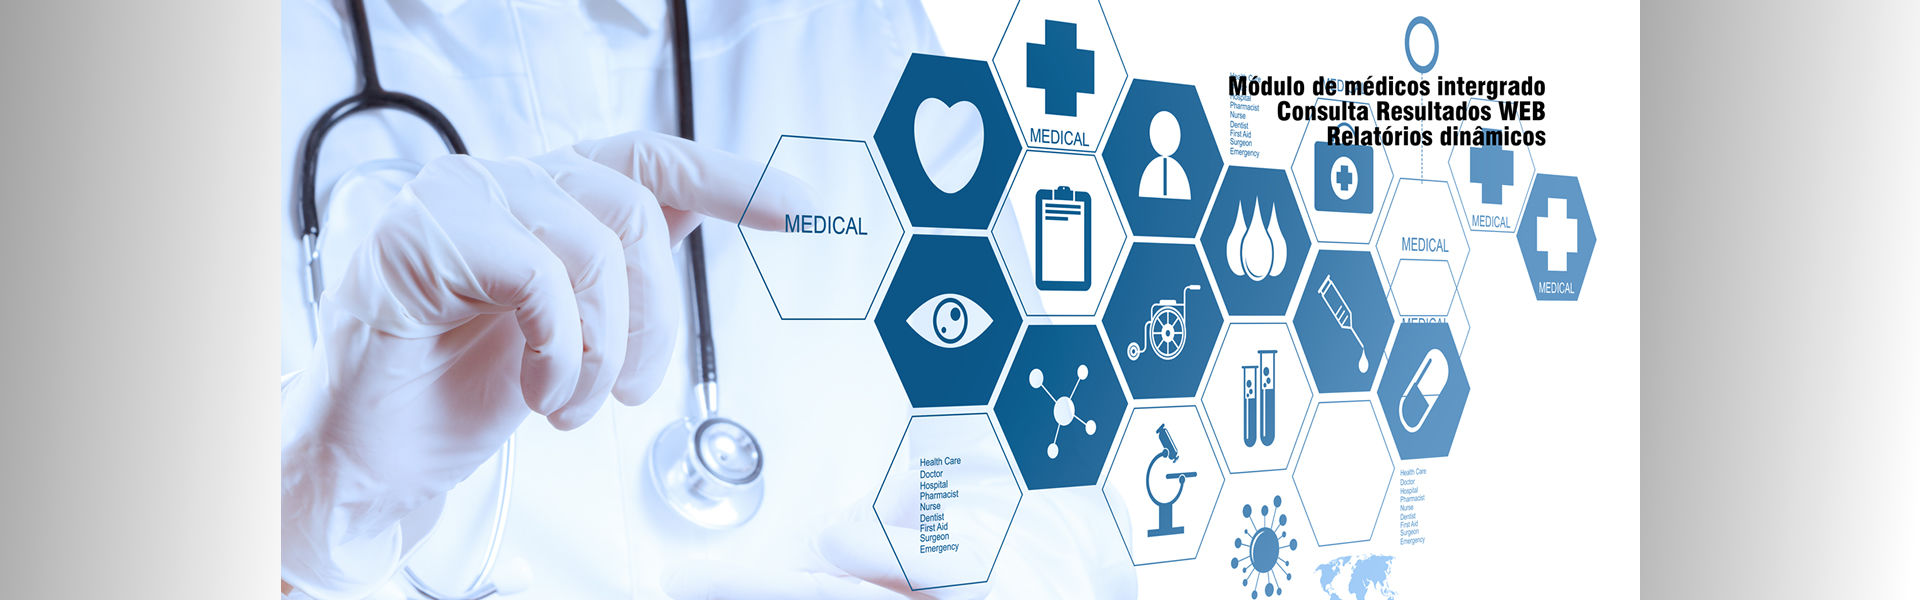
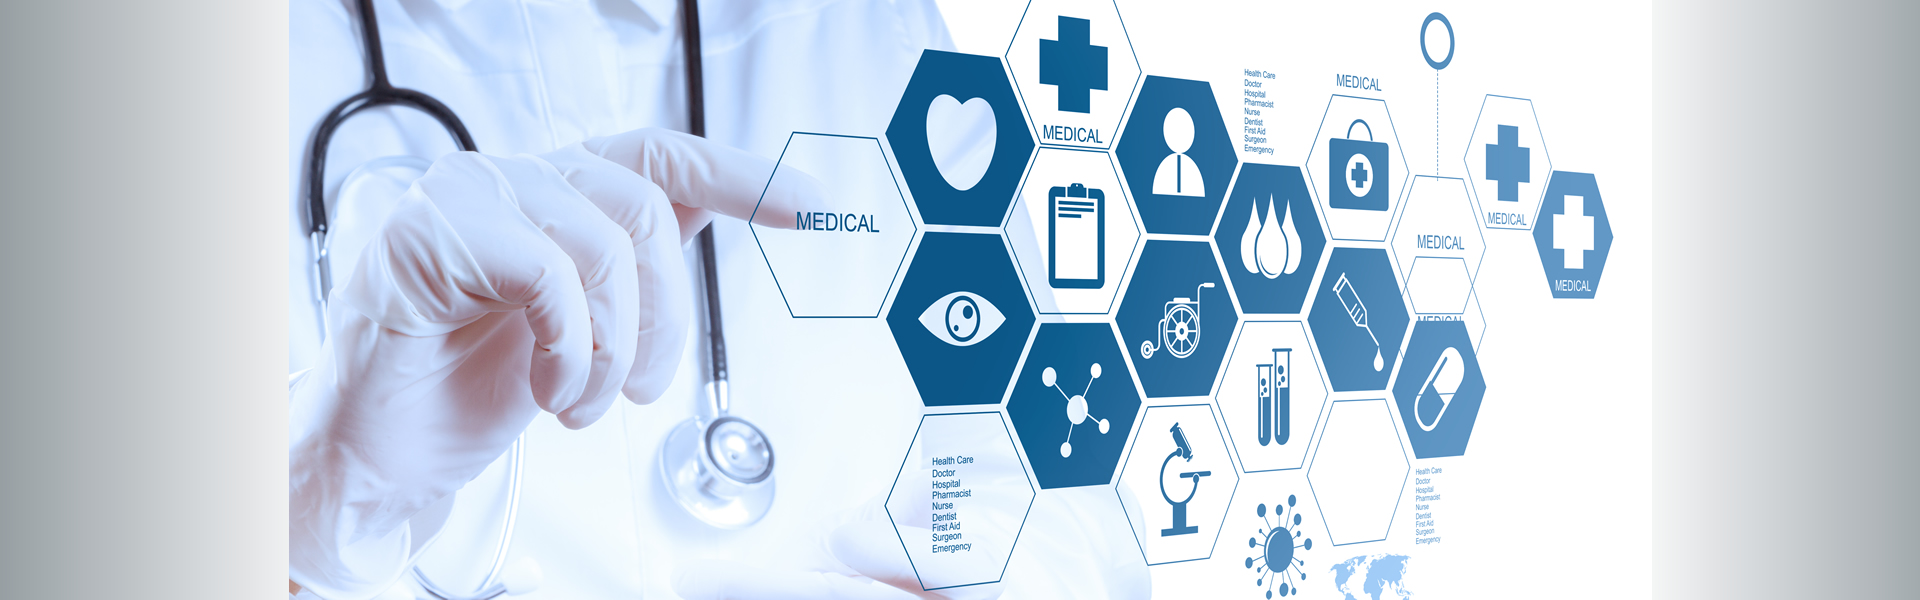
Atualizacao do Carosel inicial para responsivo.

diff --git a/views/geslab/geslab_site.html b/views/geslab/geslab_site.html
@@ -38,57 +38,92 @@
         <li data-target="inSlider" data-slide-to="2"></li>
         <li data-target="inSlider" data-slide-to="3"></li>
         <li data-target="inSlider" data-slide-to="4"></li>
-    </ol
+    </ol>
     
     <br>
-    <br>
-    <br>
-    
     
     <div class="carousel-inner" role="listbox">
-        
         <div class="item active">
-            <div class="container">
+            
+            
                 <div class="carousel-caption">
-                </div>
-            </div>
-            <!-- Set background for slide in css -->
-            <div class="header-back one"></div>
+                    <h2 style="color: black"><b>Mais controle em suas mãos<br/>
+                        Operações com apenas um clique<br/>
+                        Mais interatividade com seus pacientes<br/></b> 
+                        </h2>
+                    
 
+                    <div class="carousel-caption">
+                    </div>
+                </div>
+
+                <!-- Set background for slide in css -->
+                <div class="header-back one"></div>
+
+           
         </div>
         
+        
         <div class="item">
-            <div class="container">
-                <div class="carousel-caption blank">
+            
+            
+            <div class="carousel-caption">
+                    <h2 style="color: black"><b>Soluções inovadoras <br/>
+                        Suporte e interatividade<br/>
+                        Parceria no desenvolvimento<br/></b> 
+                        </h2>
+                    
+
+                    <div class="carousel-caption">
+                    </div>
                 </div>
-            </div>
+            
+            
             <!-- Set background for slide in css -->
             <div class="header-back two"></div>
+        
+        
         </div>
         
+        
+        
         <div class="item">
-            <div class="container">
-                <div class="carousel-caption blank">
+            
+            <div class="carousel-caption">
+                    <h2 style="color: black"><b>Modulo de médico integrado<br/>
+                        Consulta Resultado WEB<br/>
+                        Relatorios Dinamicos<br/></b> 
+                        </h2>
+                    
+
+                    <div class="carousel-caption">
+                    </div>
                 </div>
-            </div>
             <!-- Set background for slide in css -->
             <div class="header-back three"></div>
         </div>
         
+        
          <div class="item">
-            <div class="container">
-                <div class="carousel-caption blank">
+            
+             <div class="carousel-caption">
+                    <h2 style="color: black"><b>Banco de Dados<br/>
+                        Servidores de aplicação<br/>
+                        Programas de Apoio<br/>
+                        Tudo On tle cloud<br/></b> 
+                        </h2>
+                    
+
+                    <div class="carousel-caption">
+                    </div>
                 </div>
-            </div>
+             
             <!-- Set background for slide in css -->
             <div class="header-back four"></div>
         </div>
         
+        
          <div class="item">
-            <div class="container">
-                <div class="carousel-caption blank">
-                </div>
-            </div>
             <!-- Set background for slide in css -->
             <div class="header-back five"></div>
         </div>

diff --git a/views/landing.html b/views/landing.html
@@ -62,6 +62,7 @@
             <div class="header-back two"></div>
         </div>
     </div>
+    
     <a class="left carousel-control" data-target="#inSlider" role="button" data-slide="prev">
         <span class="glyphicon glyphicon-chevron-left" aria-hidden="true"></span>
         <span class="sr-only">Previous</span>
@@ -71,6 +72,7 @@
         <span class="sr-only">Next</span>
     </a>
 </div>
+
 <section id="features" class="container services">
     <div class="row">
         <div class="col-sm-3">

diff --git a/css/overrides.css b/css/overrides.css
@@ -145,7 +145,7 @@ and open the template in the editor.
 
 .geslab-site .navbar-default .navbar-nav > li > a:hover,
 .geslab-site .navbar-default .navbar-nav > li > a:focus {
-  color: orange;
+  color: green;
   background: inherit;
 }
 
@@ -192,6 +192,7 @@ and open the template in the editor.
 .geslab-site .navbar-scroll .navbar-nav > li > a {
   padding: 25px 10px;
 }
+
 
 
 
